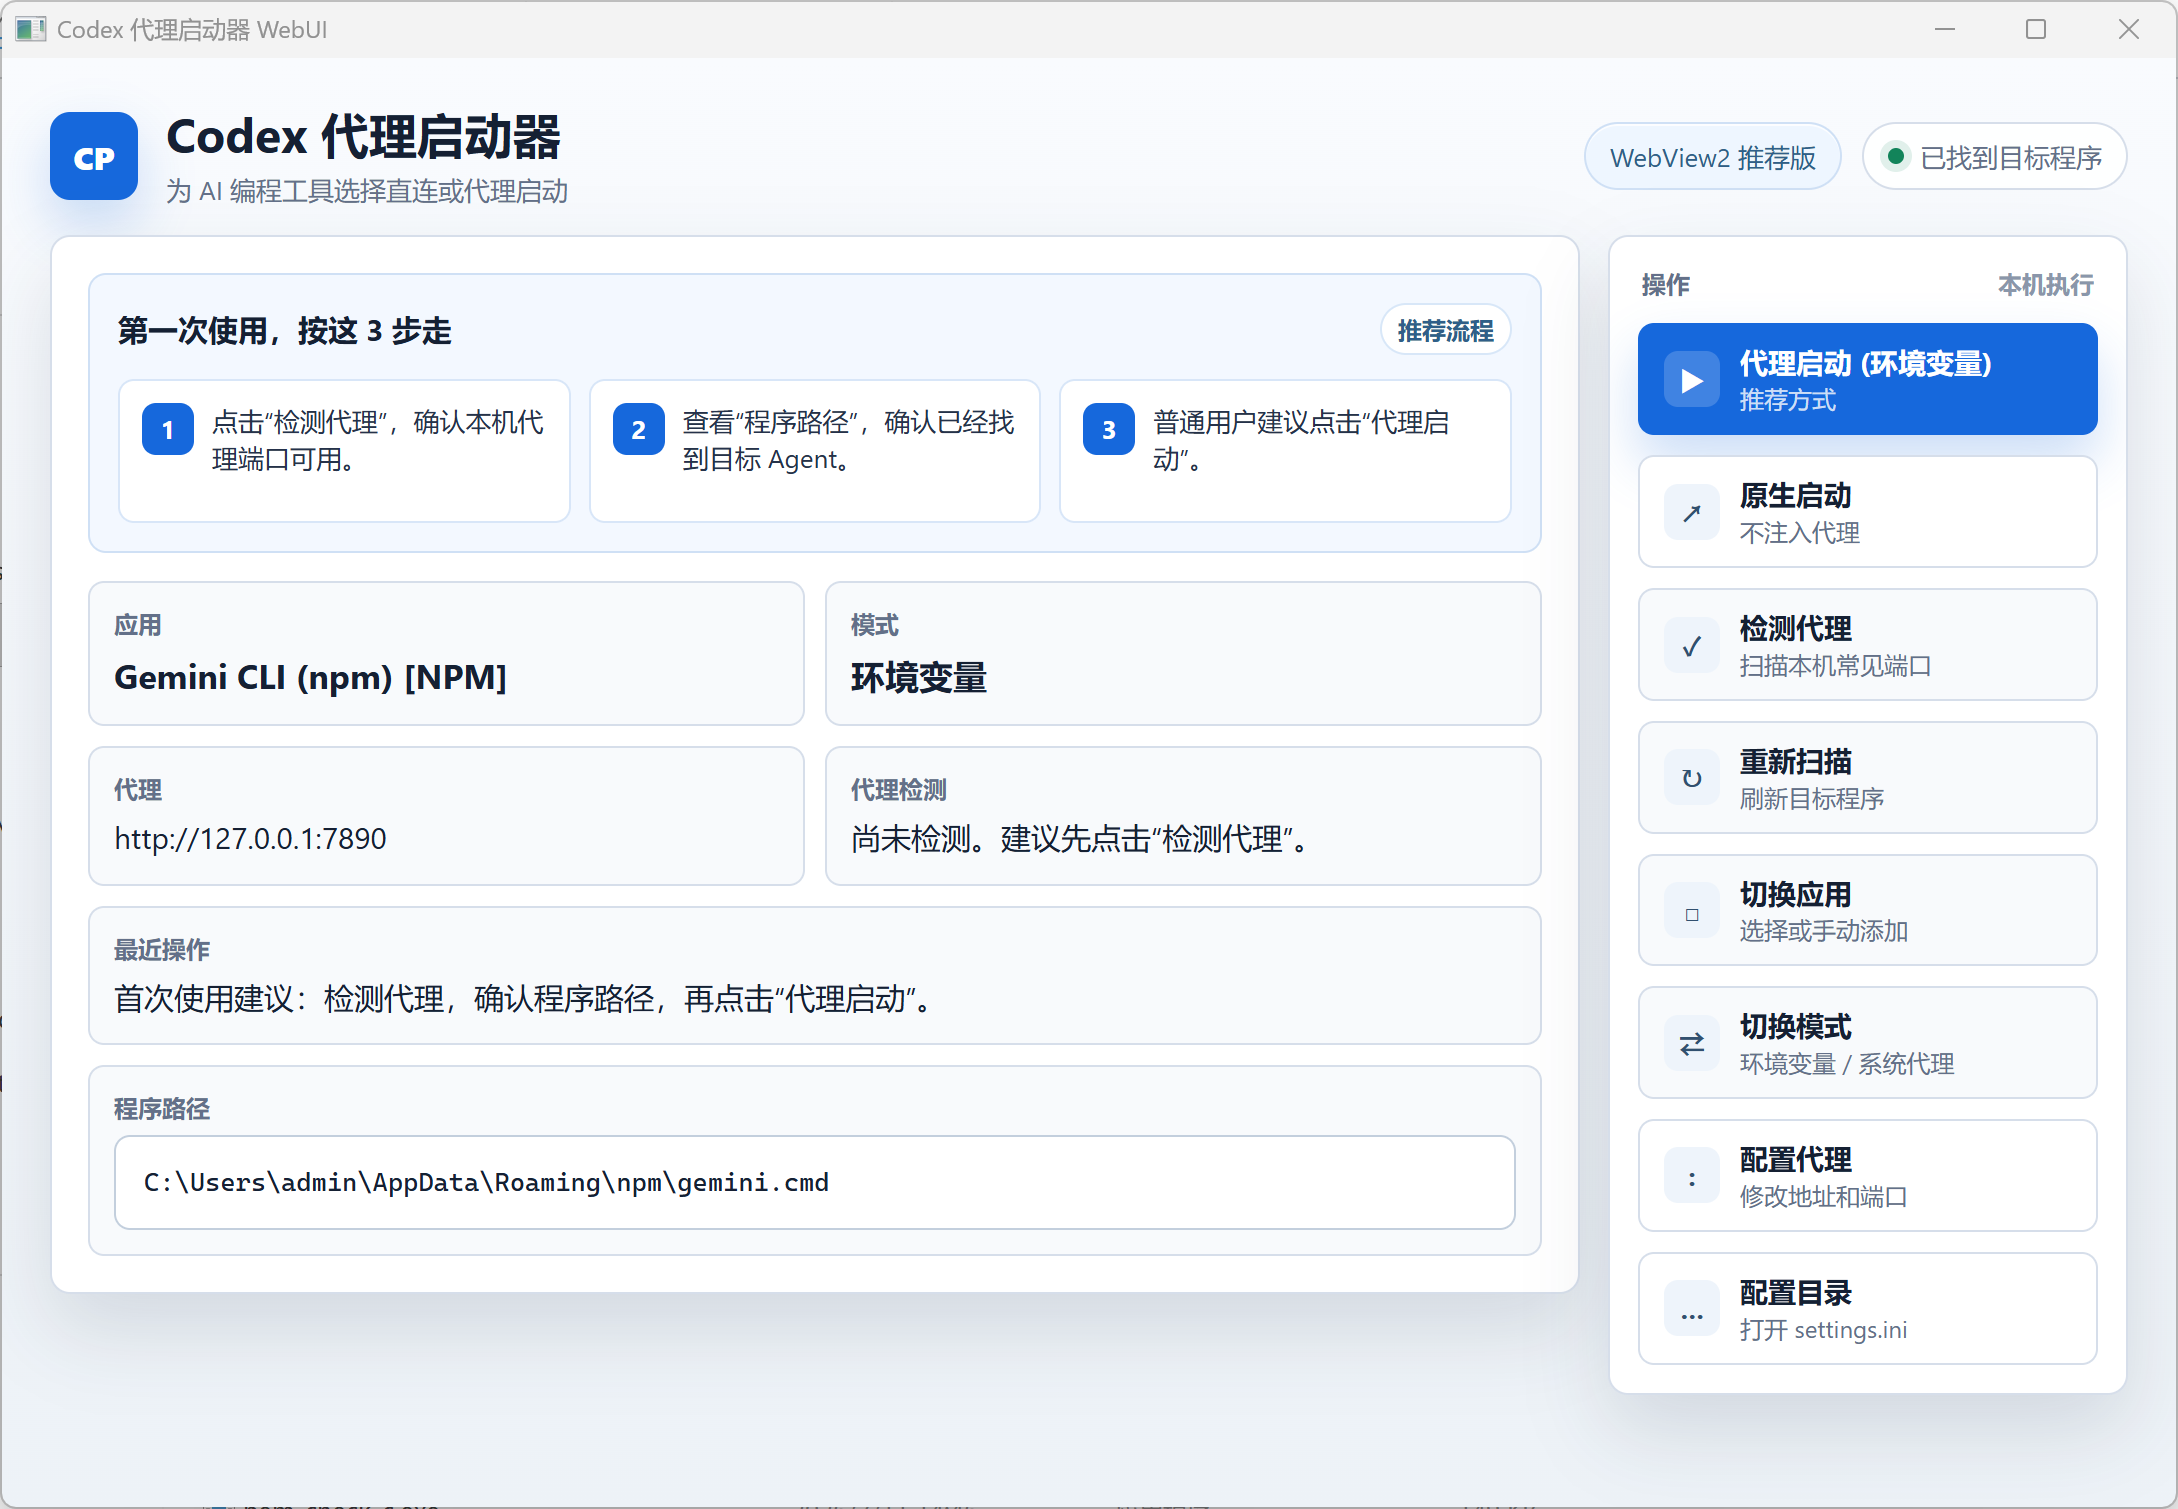
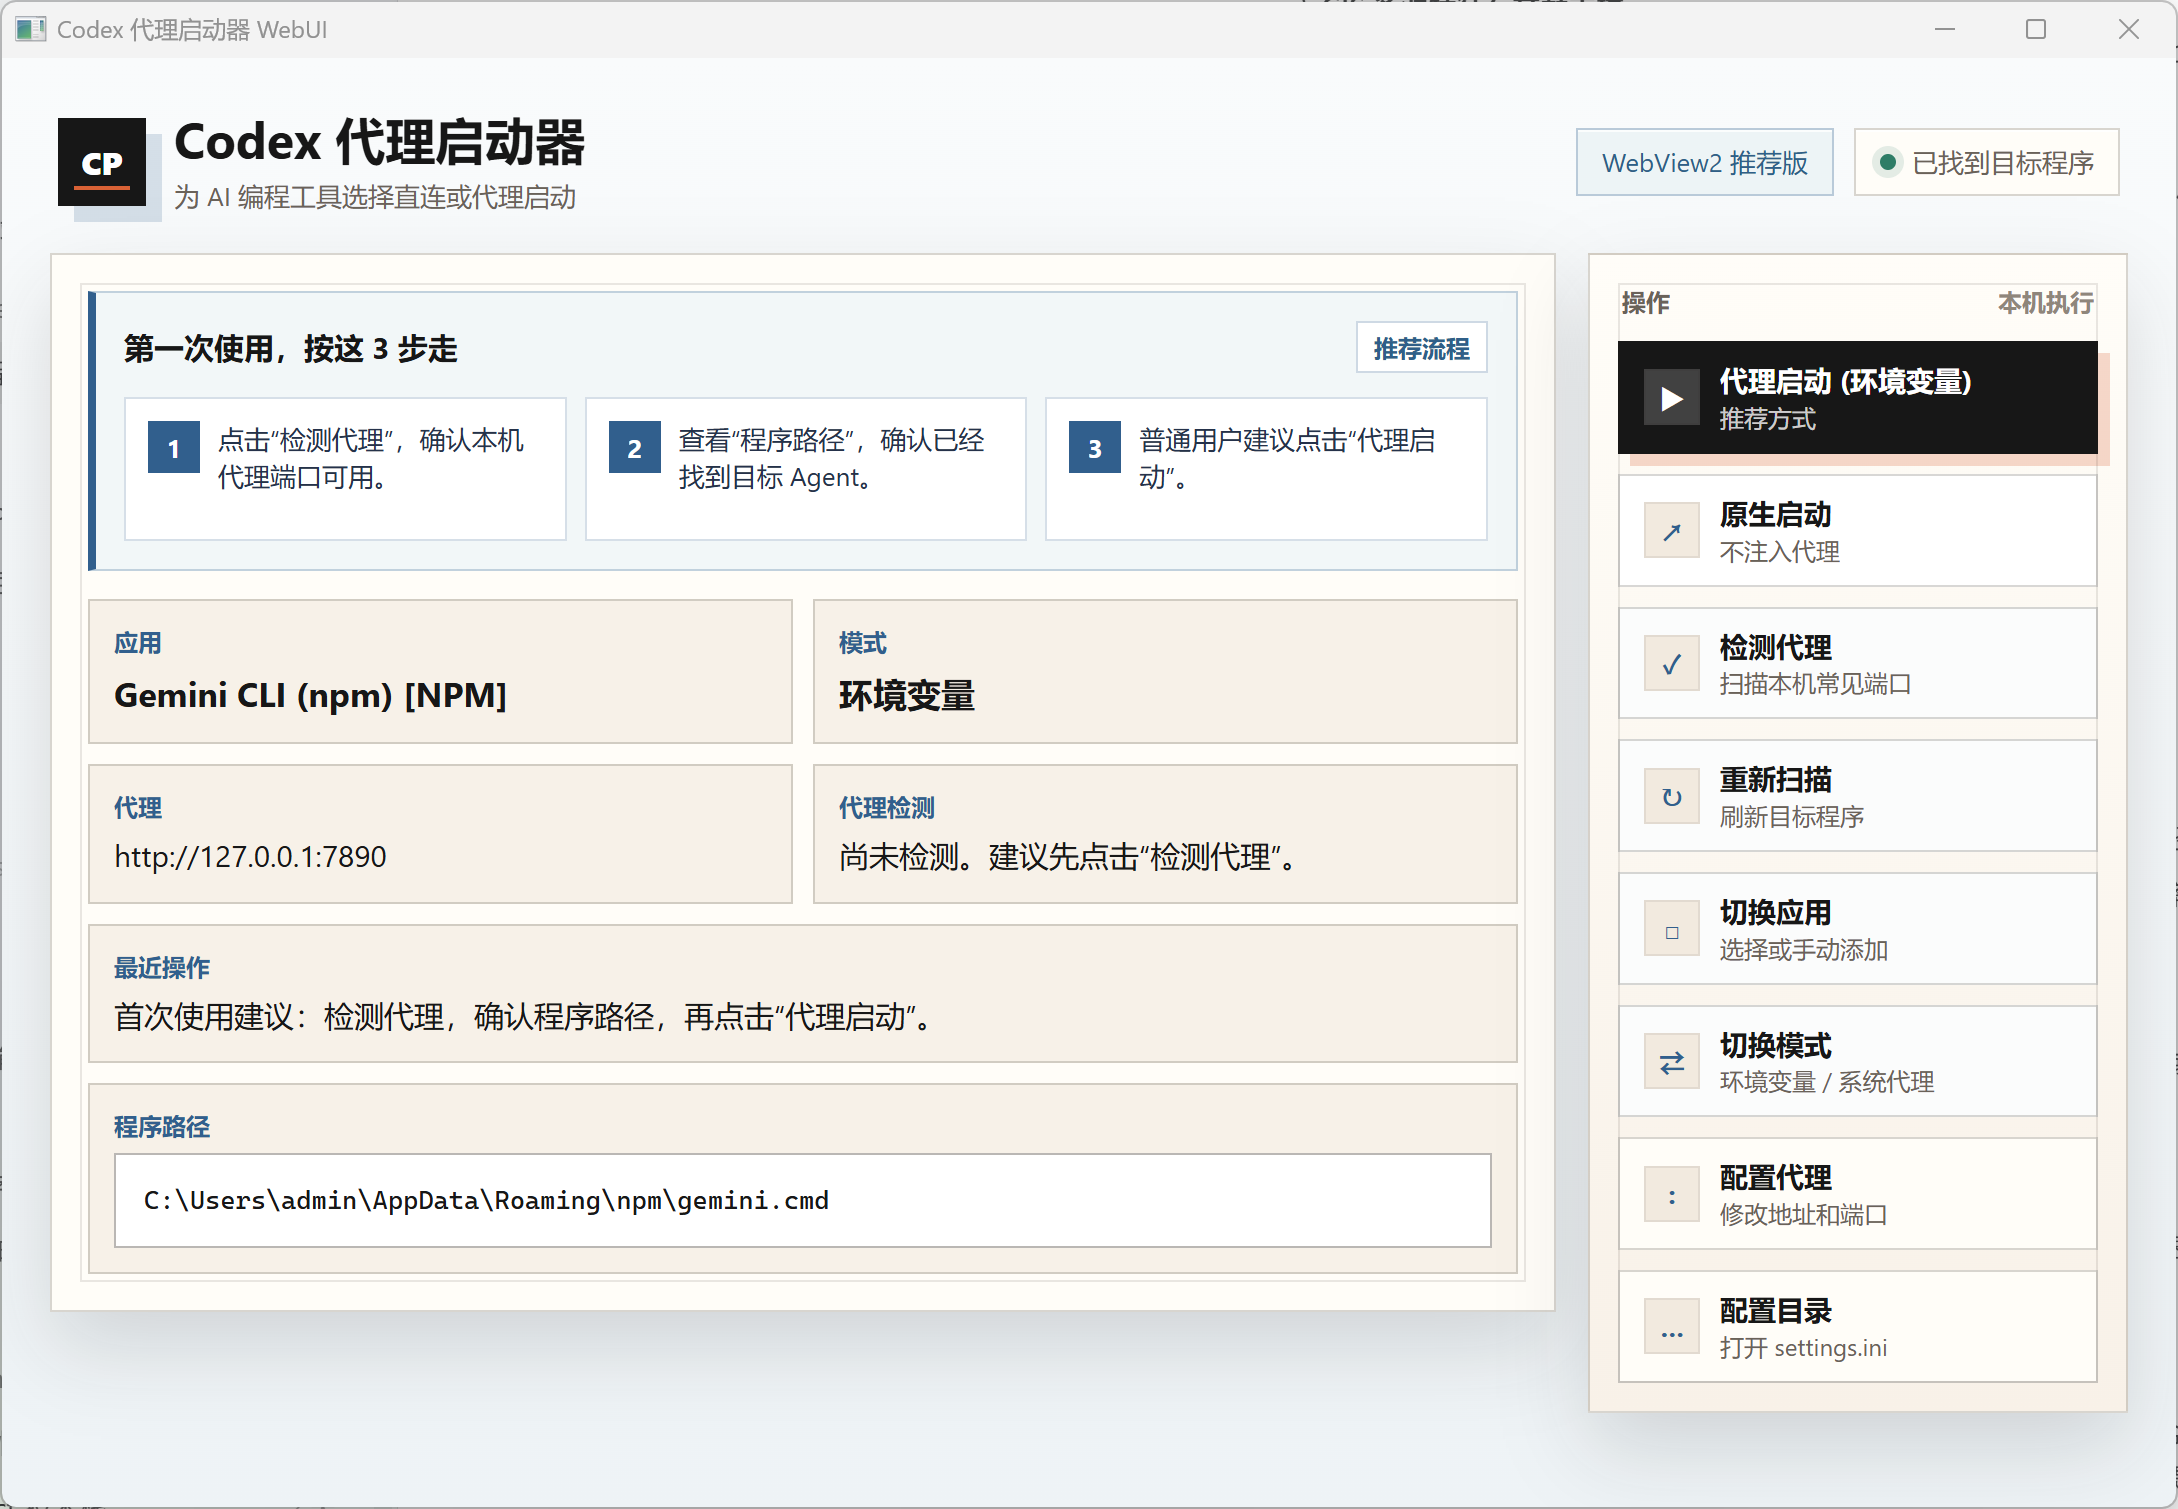
Apply Open Design WebView2 styling

diff --git a/src/webview_ui.hpp b/src/webview_ui.hpp
@@ -12,23 +12,25 @@ inline std::wstring BuildWebViewHtml() {
   <style>
     :root {
       color-scheme: light;
-      --bg: #edf2f7;
-      --surface: #ffffff;
-      --surface-soft: #f8fafc;
-      --surface-tint: #f2f6fb;
-      --text: #152033;
-      --muted: #637089;
-      --faint: #8a96aa;
-      --line: #d6deea;
-      --line-strong: #c3cfdd;
-      --primary: #1668dc;
-      --primary-strong: #0f4fb2;
-      --ok: #12845a;
-      --warn: #b76a00;
+      --bg: #eef3f6;
+      --paper: #fbf6ee;
+      --paper-deep: #f2eadf;
+      --surface: #fffdf8;
+      --surface-soft: #f7f1e8;
+      --surface-cool: #f2f7f8;
+      --text: #171717;
+      --muted: #6a6259;
+      --faint: #8f867b;
+      --line: rgba(39, 31, 22, 0.18);
+      --line-strong: rgba(39, 31, 22, 0.32);
+      --primary: #315f8d;
+      --primary-strong: #24496f;
+      --ok: #2e7d67;
+      --warn: #d86135;
       --danger: #a33b34;
-      --amber-bg: #fff7e8;
-      --shadow: 0 18px 40px rgba(22, 36, 60, 0.13);
-      --shadow-soft: 0 8px 20px rgba(22, 36, 60, 0.08);
+      --amber-bg: #fff0df;
+      --shadow: 0 18px 42px rgba(22, 22, 22, 0.14);
+      --shadow-soft: 0 8px 20px rgba(22, 22, 22, 0.08);
       font-family: "Segoe UI Variable", "Segoe UI", "Microsoft YaHei UI", sans-serif;
     }
 
@@ -39,7 +41,7 @@ inline std::wstring BuildWebViewHtml() {
       min-height: 100vh;
       color: var(--text);
       background:
-        linear-gradient(180deg, #f9fbfe 0, var(--bg) 100%);
+        linear-gradient(180deg, #f9fbfc 0, var(--bg) 100%);
     }
 
     .app {
@@ -56,6 +58,7 @@ inline std::wstring BuildWebViewHtml() {
       justify-content: space-between;
       gap: 18px;
       min-width: 0;
+      padding: 2px 4px 6px;
     }
 
     .title {
@@ -68,22 +71,33 @@ inline std::wstring BuildWebViewHtml() {
     .mark {
       width: 44px;
       height: 44px;
-      border-radius: 10px;
+      border-radius: 0;
       display: grid;
       place-items: center;
-      background: #1668dc;
+      background: var(--text);
       color: #fff;
       font-weight: 800;
       letter-spacing: 0;
-      box-shadow: 0 12px 26px rgba(22, 104, 220, 0.22);
+      box-shadow: 8px 8px 0 rgba(49, 95, 141, 0.18);
       flex: 0 0 auto;
+      position: relative;
+    }
+
+    .mark:after {
+      content: "";
+      position: absolute;
+      left: 8px;
+      right: 8px;
+      bottom: 8px;
+      height: 2px;
+      background: #d86135;
     }
 
     h1 {
       margin: 0;
-      font-size: 24px;
+      font-size: 25px;
       line-height: 1.16;
-      font-weight: 720;
+      font-weight: 760;
       letter-spacing: 0;
     }
 
@@ -110,8 +124,8 @@ inline std::wstring BuildWebViewHtml() {
       min-height: 34px;
       padding: 7px 12px;
       border: 1px solid var(--line);
-      border-radius: 999px;
-      background: rgba(255, 255, 255, 0.9);
+      border-radius: 0;
+      background: var(--surface);
       color: var(--muted);
       font-size: 13px;
       white-space: nowrap;
@@ -120,8 +134,8 @@ inline std::wstring BuildWebViewHtml() {
 
     .version-badge {
       color: #2f5f88;
-      background: #eef6ff;
-      border-color: #cfe0f5;
+      background: #edf4f6;
+      border-color: rgba(49, 95, 141, 0.28);
     }
 
     .dot {
@@ -129,7 +143,7 @@ inline std::wstring BuildWebViewHtml() {
       height: 8px;
       border-radius: 50%;
       background: var(--ok);
-      box-shadow: 0 0 0 4px rgba(18, 132, 90, 0.12);
+      box-shadow: 0 0 0 4px rgba(46, 125, 103, 0.13);
     }
 
     body[data-found="false"] .dot {
@@ -141,7 +155,7 @@ inline std::wstring BuildWebViewHtml() {
       display: none;
       padding: 12px 14px;
       border: 1px solid #ebc27c;
-      border-radius: 8px;
+      border-radius: 0;
       background: var(--amber-bg);
       color: #744700;
       font-size: 13px;
@@ -155,8 +169,8 @@ inline std::wstring BuildWebViewHtml() {
 
     main {
       display: grid;
-      grid-template-columns: minmax(0, 1fr) 260px;
-      gap: 14px;
+      grid-template-columns: minmax(0, 1fr) 270px;
+      gap: 16px;
       align-items: start;
       min-width: 0;
     }
@@ -164,23 +178,34 @@ inline std::wstring BuildWebViewHtml() {
     .panel {
       background: var(--surface);
       border: 1px solid var(--line);
-      border-radius: 10px;
+      border-radius: 0;
       box-shadow: var(--shadow);
       overflow: hidden;
       min-width: 0;
+      position: relative;
+    }
+
+    .panel:before {
+      content: "";
+      position: absolute;
+      inset: 14px;
+      border: 1px solid rgba(39, 31, 22, 0.10);
+      pointer-events: none;
     }
 
     .status {
       padding: 18px;
       display: grid;
       gap: 14px;
+      position: relative;
     }
 
     .guide {
       padding: 14px;
-      border: 1px solid #cfe0f5;
-      border-radius: 9px;
-      background: #f3f8ff;
+      border: 1px solid rgba(49, 95, 141, 0.25);
+      border-left: 4px solid var(--primary);
+      border-radius: 0;
+      background: var(--surface-cool);
       display: grid;
       gap: 12px;
     }
@@ -202,9 +227,9 @@ inline std::wstring BuildWebViewHtml() {
       font-size: 12px;
       font-weight: 650;
       padding: 4px 8px;
-      border-radius: 999px;
+      border-radius: 0;
       background: #ffffff;
-      border: 1px solid #d8e7f8;
+      border: 1px solid rgba(49, 95, 141, 0.24);
       white-space: nowrap;
     }
 
@@ -217,9 +242,9 @@ inline std::wstring BuildWebViewHtml() {
     .step {
       padding: 11px;
       min-height: 72px;
-      border-radius: 8px;
+      border-radius: 0;
       background: #fff;
-      border: 1px solid #d8e6f8;
+      border: 1px solid rgba(49, 95, 141, 0.20);
       display: grid;
       grid-template-columns: 26px minmax(0, 1fr);
       gap: 9px;
@@ -231,8 +256,8 @@ inline std::wstring BuildWebViewHtml() {
       height: 26px;
       display: grid;
       place-items: center;
-      border-radius: 7px;
-      background: #1668dc;
+      border-radius: 0;
+      background: var(--primary);
       color: #fff;
       font-size: 13px;
       font-weight: 760;
@@ -255,7 +280,7 @@ inline std::wstring BuildWebViewHtml() {
       gap: 6px;
       padding: 12px;
       border: 1px solid var(--line);
-      border-radius: 8px;
+      border-radius: 0;
       background: var(--surface-soft);
       min-width: 0;
     }
@@ -269,6 +294,7 @@ inline std::wstring BuildWebViewHtml() {
       font-size: 12px;
       font-weight: 680;
       letter-spacing: 0;
+      color: var(--primary);
     }
 
     .value {
@@ -285,7 +311,7 @@ inline std::wstring BuildWebViewHtml() {
 
     .path {
       padding: 13px 14px;
-      border-radius: 8px;
+      border-radius: 0;
       background: #ffffff;
       border: 1px solid var(--line-strong);
       font-family: "Cascadia Mono", Consolas, monospace;
@@ -304,6 +330,8 @@ inline std::wstring BuildWebViewHtml() {
       align-content: start;
       position: sticky;
       top: 24px;
+      background:
+        linear-gradient(180deg, #fffdf8 0, #f8f1e8 100%);
     }
 
     .actions-title {
@@ -326,7 +354,7 @@ inline std::wstring BuildWebViewHtml() {
     button {
       width: 100%;
       border: 1px solid var(--line);
-      border-radius: 8px;
+      border-radius: 0;
       padding: 10px 12px;
       min-height: 46px;
       background: #fff;
@@ -342,13 +370,13 @@ inline std::wstring BuildWebViewHtml() {
     }
 
     button:hover {
-      transform: translateY(-1px);
-      border-color: rgba(22, 104, 220, 0.42);
-      box-shadow: 0 10px 22px rgba(22, 36, 60, 0.10);
+      transform: translate(-1px, -1px);
+      border-color: rgba(49, 95, 141, 0.45);
+      box-shadow: 4px 4px 0 rgba(49, 95, 141, 0.13);
     }
 
     button:focus-visible {
-      outline: 3px solid rgba(22, 104, 220, 0.22);
+      outline: 3px solid rgba(216, 97, 53, 0.20);
       outline-offset: 2px;
     }
 
@@ -359,13 +387,14 @@ inline std::wstring BuildWebViewHtml() {
     .btn-icon {
       width: 28px;
       height: 28px;
-      border-radius: 7px;
+      border-radius: 0;
       display: grid;
       place-items: center;
-      background: #eef4fb;
-      color: #31506f;
+      background: var(--paper-deep);
+      color: var(--primary);
       font-size: 13px;
       font-weight: 780;
+      border: 1px solid rgba(39, 31, 22, 0.08);
     }
 
     .btn-text {
@@ -388,9 +417,9 @@ inline std::wstring BuildWebViewHtml() {
 
     .primary {
       border-color: transparent;
-      background: #1668dc;
+      background: var(--text);
       color: #fff;
-      box-shadow: 0 14px 26px rgba(22, 104, 220, 0.22);
+      box-shadow: 6px 6px 0 rgba(216, 97, 53, 0.24);
     }
 
     .primary .btn-icon {
@@ -403,18 +432,18 @@ inline std::wstring BuildWebViewHtml() {
     }
 
     .secondary {
-      background: #f8fafc;
+      background: #fbfcfc;
     }
 
     .quiet {
       min-height: 42px;
-      background: #fff;
+      background: var(--surface);
     }
 
     .danger {
       color: var(--danger);
-      background: #fff8f7;
-      border-color: #efc8c4;
+      background: #fff3ef;
+      border-color: #e9b9ad;
     }
 
     .danger .btn-icon {
@@ -428,9 +457,9 @@ inline std::wstring BuildWebViewHtml() {
       right: 28px;
       bottom: 22px;
       padding: 12px 14px;
-      border-radius: 8px;
+      border-radius: 0;
       color: #fff;
-      background: rgba(20, 30, 47, 0.94);
+      background: rgba(22, 21, 20, 0.95);
       box-shadow: 0 18px 40px rgba(0, 0, 0, 0.20);
       opacity: 0;
       transform: translateY(8px);

diff --git a/README.en.md b/README.en.md
@@ -26,10 +26,10 @@ If unsure, choose the WebView2 build. Most Windows 10/11 systems already include
 
 Prebuilt executables are not committed to the repository. Download the static x64 build from GitHub Releases:
 
-- [AppProxySwitcher-WebView2-x64.zip](https://github.com/yufangjie1643/app-proxy-switcher-win/releases/download/v2.3.1/AppProxySwitcher-WebView2-x64.zip)
-- [AppProxySwitcher-Win32-x64.zip](https://github.com/yufangjie1643/app-proxy-switcher-win/releases/download/v2.3.1/AppProxySwitcher-Win32-x64.zip)
-- [CodexProxySwitcher-webview2-x64.exe](https://github.com/yufangjie1643/app-proxy-switcher-win/releases/download/v2.3.1/CodexProxySwitcher-webview2-x64.exe)
-- [CodexProxySwitcher-win32-x64.exe](https://github.com/yufangjie1643/app-proxy-switcher-win/releases/download/v2.3.1/CodexProxySwitcher-win32-x64.exe)
+- [AppProxySwitcher-WebView2-x64.zip](https://github.com/yufangjie1643/app-proxy-switcher-win/releases/download/v2.3.2/AppProxySwitcher-WebView2-x64.zip)
+- [AppProxySwitcher-Win32-x64.zip](https://github.com/yufangjie1643/app-proxy-switcher-win/releases/download/v2.3.2/AppProxySwitcher-Win32-x64.zip)
+- [CodexProxySwitcher-webview2-x64.exe](https://github.com/yufangjie1643/app-proxy-switcher-win/releases/download/v2.3.2/CodexProxySwitcher-webview2-x64.exe)
+- [CodexProxySwitcher-win32-x64.exe](https://github.com/yufangjie1643/app-proxy-switcher-win/releases/download/v2.3.2/CodexProxySwitcher-win32-x64.exe)
 
 Unzip the package and run `CodexProxySwitcherWebView2.exe` or `CodexProxySwitcher.exe`. On first launch, the app reads or creates its config and shows the detected target program path.
 

diff --git a/README.md b/README.md
@@ -26,10 +26,10 @@
 
 仓库不提交编译好的 exe，请到 GitHub Release 下载静态 x64 版本：
 
-- [AppProxySwitcher-WebView2-x64.zip](https://github.com/yufangjie1643/app-proxy-switcher-win/releases/download/v2.3.1/AppProxySwitcher-WebView2-x64.zip)
-- [AppProxySwitcher-Win32-x64.zip](https://github.com/yufangjie1643/app-proxy-switcher-win/releases/download/v2.3.1/AppProxySwitcher-Win32-x64.zip)
-- [CodexProxySwitcher-webview2-x64.exe](https://github.com/yufangjie1643/app-proxy-switcher-win/releases/download/v2.3.1/CodexProxySwitcher-webview2-x64.exe)
-- [CodexProxySwitcher-win32-x64.exe](https://github.com/yufangjie1643/app-proxy-switcher-win/releases/download/v2.3.1/CodexProxySwitcher-win32-x64.exe)
+- [AppProxySwitcher-WebView2-x64.zip](https://github.com/yufangjie1643/app-proxy-switcher-win/releases/download/v2.3.2/AppProxySwitcher-WebView2-x64.zip)
+- [AppProxySwitcher-Win32-x64.zip](https://github.com/yufangjie1643/app-proxy-switcher-win/releases/download/v2.3.2/AppProxySwitcher-Win32-x64.zip)
+- [CodexProxySwitcher-webview2-x64.exe](https://github.com/yufangjie1643/app-proxy-switcher-win/releases/download/v2.3.2/CodexProxySwitcher-webview2-x64.exe)
+- [CodexProxySwitcher-win32-x64.exe](https://github.com/yufangjie1643/app-proxy-switcher-win/releases/download/v2.3.2/CodexProxySwitcher-win32-x64.exe)
 
 下载后解压，双击运行 `CodexProxySwitcherWebView2.exe` 或 `CodexProxySwitcher.exe`。首次启动会读取或创建配置，并显示识别到的目标程序路径。
 